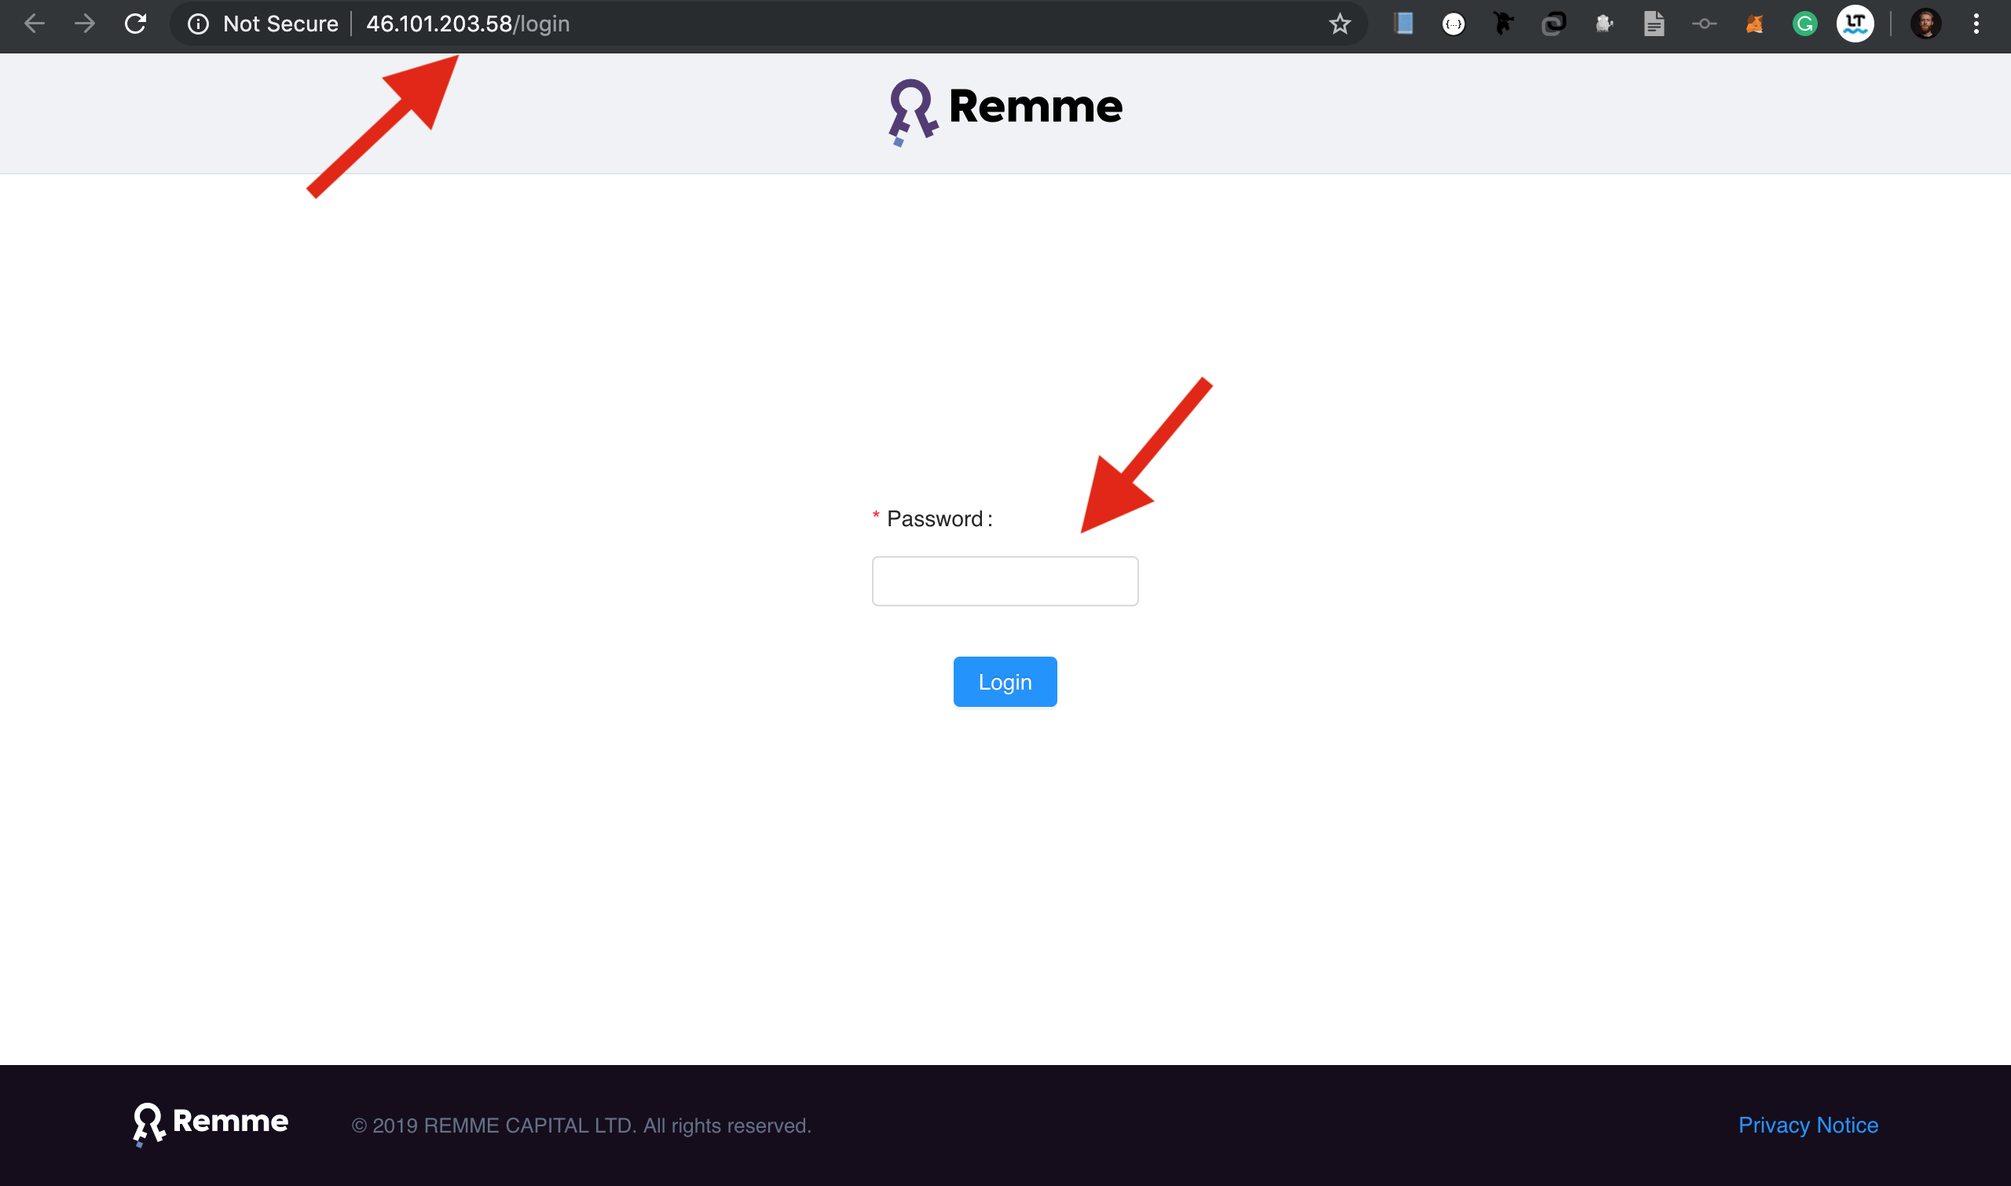
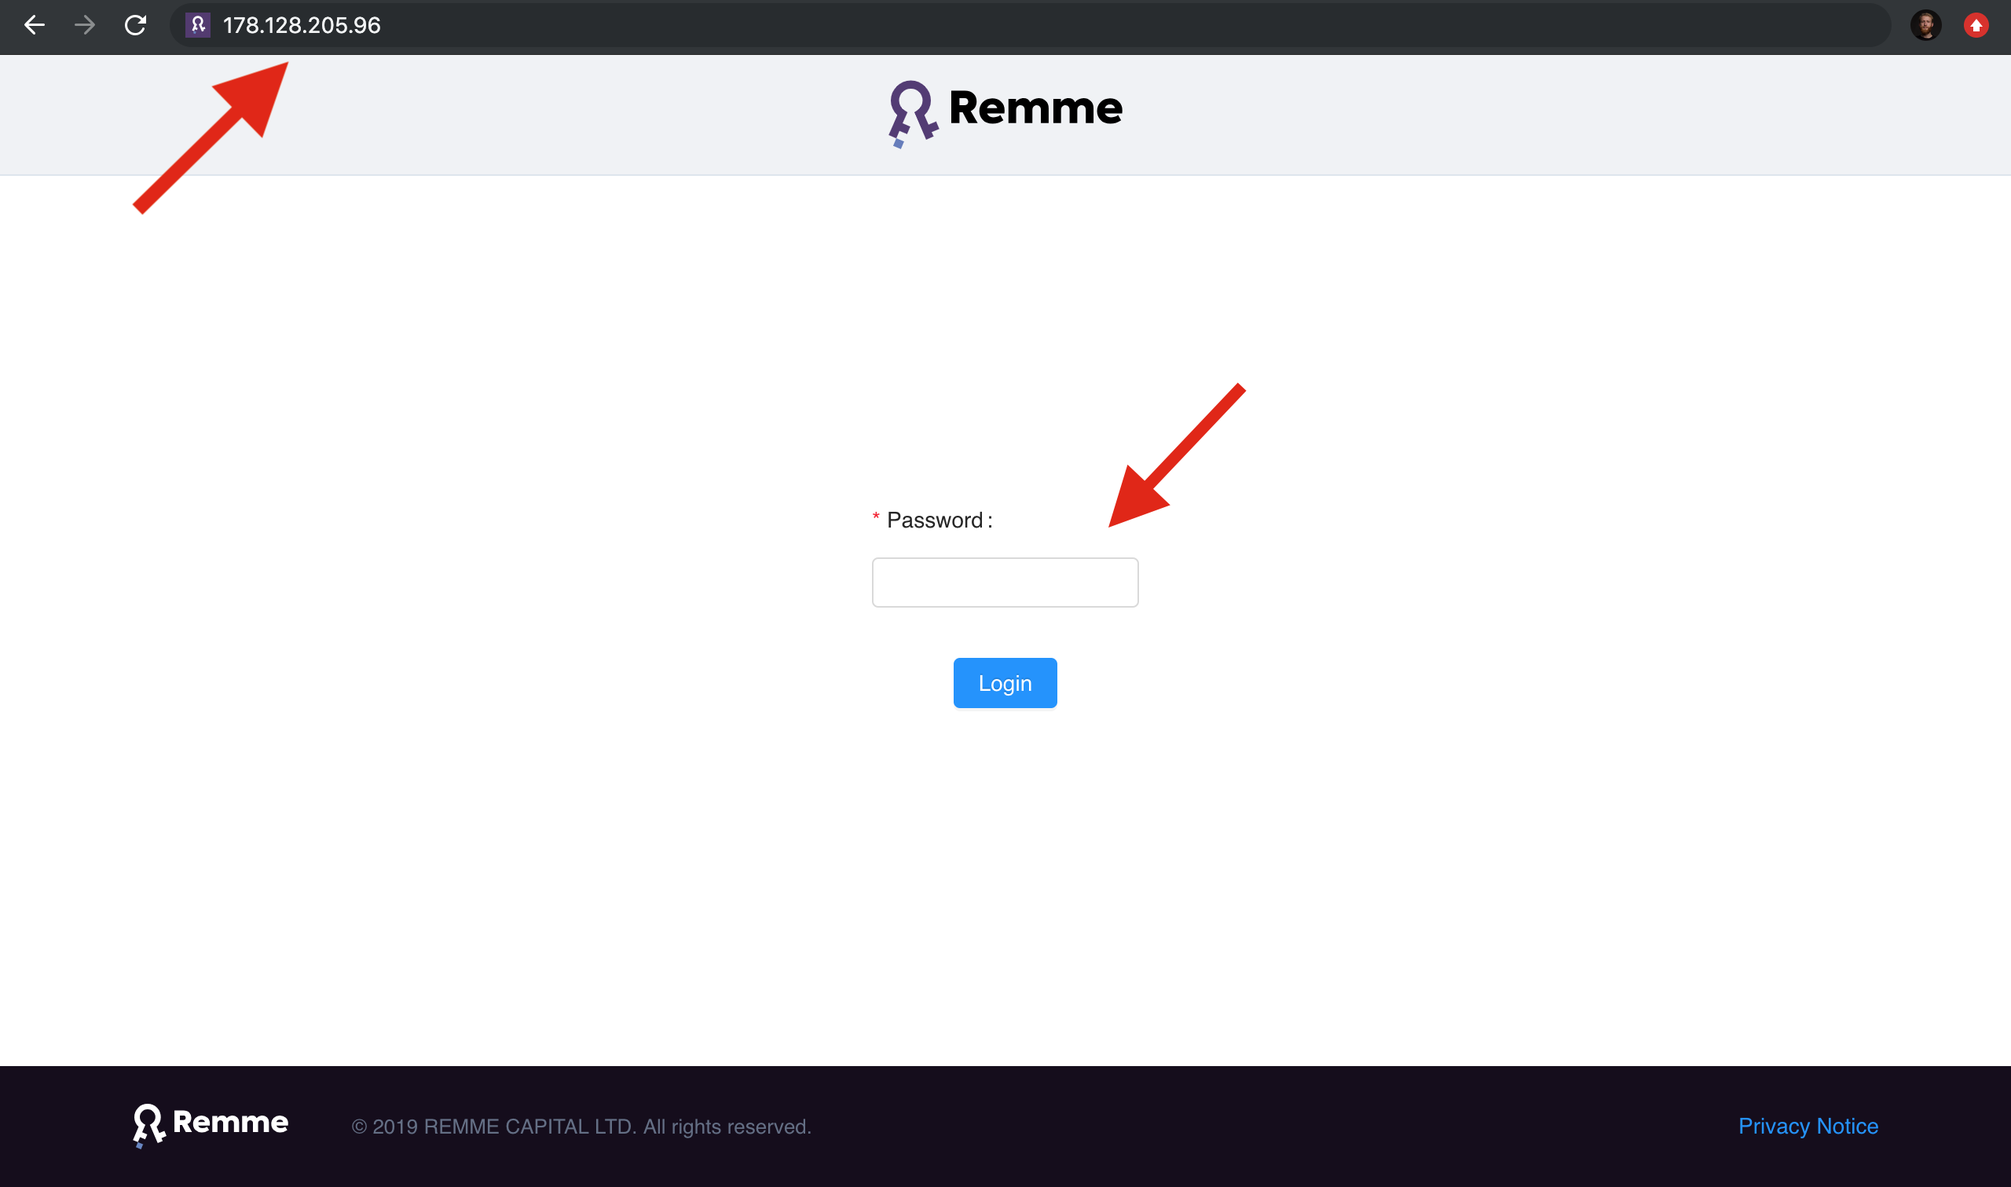
Migrate setup command due to 0.8.1 release

diff --git a/docs/user-guide/cloud/aws.rst b/docs/user-guide/cloud/aws.rst
@@ -100,11 +100,9 @@ Set tag named ``Name`` with value ``remme-core-testnet-node``, then press ``Next
 
 Add the following rules to the security group:
 
-1. ``Custom TCP`` for type, ``8080`` for port range, ``0.0.0.0/0, ::/0`` for source and ``Open node RPC API port`` for description.
-2. ``Custom TCP`` for type, ``8800`` for port range, ``0.0.0.0/0, ::/0`` for source and ``Nodes synchronisation port`` for description.
-3. ``Custom TCP`` for type, ``3000`` for port range, ``0.0.0.0/0, ::/0`` for source and ``Monitoring port`` for description.
-4. ``Custom TCP`` for type, ``80`` for port range, ``0.0.0.0/0, ::/0`` for source and ``HTTP port`` for description.
-5. ``Custom TCP`` for type, ``443`` for port range, ``0.0.0.0/0, ::/0`` for source and ``HTTPS port`` for description.
+1. ``Custom TCP`` for type, ``8800`` for port range, ``0.0.0.0/0, ::/0`` for source and ``Nodes synchronisation port`` for description.
+2. ``Custom TCP`` for type, ``80`` for port range, ``0.0.0.0/0, ::/0`` for source and ``HTTP port`` for description.
+3. ``Custom TCP`` for type, ``443`` for port range, ``0.0.0.0/0, ::/0`` for source and ``HTTPS port`` for description.
 
 .. image:: /img/user-guide/cloud/aws/instance-security-group.png
    :width: 100%
@@ -186,20 +184,26 @@ the project that already specified in the command below.
 
 .. code-block:: console
 
-   $ export REMME_CORE_RELEASE=0.8.0-alpha
+   $ export REMME_CORE_RELEASE=0.8.1-alpha
    $ sudo apt-get install apt-transport-https ca-certificates curl software-properties-common make -y && \
          echo "REMME_CORE_RELEASE=$REMME_CORE_RELEASE" >> ~/.bashrc && \
          cd /home/ && curl -L https://github.com/Remmeauth/remme-core/archive/v$REMME_CORE_RELEASE.tar.gz | sudo tar zx && \
          cd remme-core-$REMME_CORE_RELEASE && \
+         sudo -i sed -i "s@80@3333@" /home/remme-core-$REMME_CORE_RELEASE/docker/compose/admin.yml && \
+         sudo -i sed -i '/      - GF_USERS_ALLOW_SIGN_UP=false/a \      - GF_SERVER_ROOT_URL=%(protocol)s:\/\/%(domain)s:\/monitoring\/' /home/remme-core-$REMME_CORE_RELEASE/docker/compose/mon.yml && \
          sudo apt update && sudo apt upgrade -y && \
-         curl -fsSL https://download.docker.com/linux/ubuntu/gpg | sudo apt-key add - && \
-         sudo apt update && sudo apt install docker.io -y && \
+         curl -fsSL https://download.docker.com/linux/ubuntu/gpg | sudo apt-key add && \
+         sudo add-apt-repository "deb [arch=amd64] https://download.docker.com/linux/ubuntu $(lsb_release -cs) stable" && \
+         sudo apt-get update && sudo apt-get install docker-ce -y && \
+         sudo apt update && sudo apt install nginx -y && \
+         curl https://gist.githubusercontent.com/dmytrostriletskyi/70dda8c594e60be1e089586f2ee8c0a0/raw/d453465e337cf5052a94b1d961f8a82c392ecf21/http-nginx.conf| sudo tee /etc/nginx/nginx.conf > /dev/null && \
          sudo curl -o /usr/local/bin/docker-compose -L "https://github.com/docker/compose/releases/download/1.23.2/docker-compose-$(uname -s)-$(uname -m)" && \
          sudo chmod +x /usr/local/bin/docker-compose && \
          curl https://gist.githubusercontent.com/dmytrostriletskyi/9f525241acfc46799c65d5f010c43b5f/raw/3147860240613e7e2eab5e288d48a975934a260a/up-node-after-server-restart.sh > ~/up-node-after-server-restart.sh && \
          chmod +x ~/up-node-after-server-restart.sh && \
          echo "@reboot $USER ~/./up-node-after-server-restart.sh $REMME_CORE_RELEASE" | sudo tee -a /etc/crontab > /dev/null && \
-         curl https://gist.githubusercontent.com/dmytrostriletskyi/48f2877d77570facffdea395521e8bd8/raw/9334bfb5cc18b4e143311fead9bd2447a0ae6d24/seeds-list.txt  | sudo tee config/seeds-list.txt > /dev/null && \
+         curl https://gist.githubusercontent.com/dmytrostriletskyi/48f2877d77570facffdea395521e8bd8/raw/9334bfb5cc18b4e143311fead9bd2447a0ae6d24/seeds-list.txt | sudo tee config/seeds-list.txt > /dev/null && \
+         sudo systemctl restart nginx && \
          sudo make run_bg_user
 
 .. image:: /img/user-guide/cloud/aws/installation-command.png
@@ -234,7 +238,7 @@ change ``157.230.146.230`` to your server's ``IP address``.
 .. code-block:: console
 
    $ export NODE_IP_ADDRESS=157.230.146.230
-   $ curl -X POST http://$NODE_IP_ADDRESS:8080 -H 'Content-Type: application/json' -d \
+   $ curl -X POST http://$NODE_IP_ADDRESS/rpc/ -H 'Content-Type: application/json' -d \
          '{"jsonrpc":"2.0","id":"11","method":"get_node_config","params":{}}' | python3 -m json.tool
 
 The response should look similar to this:
@@ -261,8 +265,8 @@ Step 6: admin panel
 ===================
 
 While starting the node, the admin panel has also been installed and started. Log into the admin panel. Copy your server's
-``IPv4 Public IP`` address, paste it into the browser address bar. Then add ``/login`` to the end of the address and press ``Enter``.
-Then you will see the initial admin panel page with authentication. Enter ``remme`` to the password fields.
+``IPv4 Public IP``, paste it into the browser address bar press ``Enter``. Then you will see the initial admin panel page with
+authentication. Enter ``remme`` to the password fields.
 
 .. image:: /img/user-guide/admin-panel/login-page.png
    :width: 100%

diff --git a/docs/user-guide/cloud/digital-ocean.rst b/docs/user-guide/cloud/digital-ocean.rst
@@ -184,20 +184,26 @@ the project that already specified in the command below.
 
 .. code-block:: console
 
-   $ export REMME_CORE_RELEASE=0.8.0-alpha
+   $ export REMME_CORE_RELEASE=0.8.1-alpha
    $ sudo apt-get install apt-transport-https ca-certificates curl software-properties-common make -y && \
          echo "REMME_CORE_RELEASE=$REMME_CORE_RELEASE" >> ~/.bashrc && \
          cd /home/ && curl -L https://github.com/Remmeauth/remme-core/archive/v$REMME_CORE_RELEASE.tar.gz | sudo tar zx && \
          cd remme-core-$REMME_CORE_RELEASE && \
+         sudo -i sed -i "s@80@3333@" /home/remme-core-$REMME_CORE_RELEASE/docker/compose/admin.yml && \
+         sudo -i sed -i '/      - GF_USERS_ALLOW_SIGN_UP=false/a \      - GF_SERVER_ROOT_URL=%(protocol)s:\/\/%(domain)s:\/monitoring\/' /home/remme-core-$REMME_CORE_RELEASE/docker/compose/mon.yml && \
          sudo apt update && sudo apt upgrade -y && \
-         curl -fsSL https://download.docker.com/linux/ubuntu/gpg | sudo apt-key add - && \
-         sudo apt update && sudo apt install docker.io -y && \
+         curl -fsSL https://download.docker.com/linux/ubuntu/gpg | sudo apt-key add && \
+         sudo add-apt-repository "deb [arch=amd64] https://download.docker.com/linux/ubuntu $(lsb_release -cs) stable" && \
+         sudo apt-get update && sudo apt-get install docker-ce -y && \
+         sudo apt update && sudo apt install nginx -y && \
+         curl https://gist.githubusercontent.com/dmytrostriletskyi/70dda8c594e60be1e089586f2ee8c0a0/raw/d453465e337cf5052a94b1d961f8a82c392ecf21/http-nginx.conf| sudo tee /etc/nginx/nginx.conf > /dev/null && \
          sudo curl -o /usr/local/bin/docker-compose -L "https://github.com/docker/compose/releases/download/1.23.2/docker-compose-$(uname -s)-$(uname -m)" && \
          sudo chmod +x /usr/local/bin/docker-compose && \
          curl https://gist.githubusercontent.com/dmytrostriletskyi/9f525241acfc46799c65d5f010c43b5f/raw/3147860240613e7e2eab5e288d48a975934a260a/up-node-after-server-restart.sh > ~/up-node-after-server-restart.sh && \
          chmod +x ~/up-node-after-server-restart.sh && \
-         echo "@reboot $USER ~/./up-node-after-server-restart.sh $REMME_CORE_RELEASE" >> /etc/crontab && \
-         curl https://gist.githubusercontent.com/dmytrostriletskyi/48f2877d77570facffdea395521e8bd8/raw/9334bfb5cc18b4e143311fead9bd2447a0ae6d24/seeds-list.txt > config/seeds-list.txt && \
+         echo "@reboot $USER ~/./up-node-after-server-restart.sh $REMME_CORE_RELEASE" | sudo tee -a /etc/crontab > /dev/null && \
+         curl https://gist.githubusercontent.com/dmytrostriletskyi/48f2877d77570facffdea395521e8bd8/raw/9334bfb5cc18b4e143311fead9bd2447a0ae6d24/seeds-list.txt | sudo tee config/seeds-list.txt > /dev/null && \
+         sudo systemctl restart nginx && \
          sudo make run_bg_user
 
 .. image:: /img/user-guide/cloud/digital-ocean/installation-command.png
@@ -232,7 +238,7 @@ change ``157.230.146.230`` to your server's ``IP address``.
 .. code-block:: console
 
    $ export NODE_IP_ADDRESS=157.230.146.230
-   $ curl -X POST http://$NODE_IP_ADDRESS:8080 -H 'Content-Type: application/json' -d \
+   $ curl -X POST http://$NODE_IP_ADDRESS/rpc/ -H 'Content-Type: application/json' -d \
          '{"jsonrpc":"2.0","id":"11","method":"get_node_config","params":{}}' | python3 -m json.tool
 
 The response should look similar to this:
@@ -259,8 +265,8 @@ Step 6: admin panel
 ===================
 
 While starting the node, the admin panel has also been installed and started. Log into the admin panel. Copy your server's
-``IP address``, paste it into the browser address bar. Then add ``/login`` to the end of the address and press ``Enter``.
-Then you will see the initial admin panel page with authentication. Enter ``remme`` to the password fields.
+``IP address``, paste it into the browser address bar press ``Enter``. Then you will see the initial admin panel page with
+authentication. Enter ``remme`` to the password fields.
 
 .. image:: /img/user-guide/admin-panel/login-page.png
    :width: 100%

diff --git a/docs/user-guide/cloud/vultr.rst b/docs/user-guide/cloud/vultr.rst
@@ -141,20 +141,26 @@ the project that already specified in the command below.
 
 .. code-block:: console
 
-   $ export REMME_CORE_RELEASE=0.8.0-alpha
+   $ export REMME_CORE_RELEASE=0.8.1-alpha
    $ sudo apt-get install apt-transport-https ca-certificates curl software-properties-common make -y && \
          echo "REMME_CORE_RELEASE=$REMME_CORE_RELEASE" >> ~/.bashrc && \
          cd /home/ && curl -L https://github.com/Remmeauth/remme-core/archive/v$REMME_CORE_RELEASE.tar.gz | sudo tar zx && \
          cd remme-core-$REMME_CORE_RELEASE && \
+         sudo -i sed -i "s@80@3333@" /home/remme-core-$REMME_CORE_RELEASE/docker/compose/admin.yml && \
+         sudo -i sed -i '/      - GF_USERS_ALLOW_SIGN_UP=false/a \      - GF_SERVER_ROOT_URL=%(protocol)s:\/\/%(domain)s:\/monitoring\/' /home/remme-core-$REMME_CORE_RELEASE/docker/compose/mon.yml && \
          sudo apt update && sudo apt upgrade -y && \
-         curl -fsSL https://download.docker.com/linux/ubuntu/gpg | sudo apt-key add - && \
-         sudo apt update && sudo apt install docker.io -y && \
+         curl -fsSL https://download.docker.com/linux/ubuntu/gpg | sudo apt-key add && \
+         sudo add-apt-repository "deb [arch=amd64] https://download.docker.com/linux/ubuntu $(lsb_release -cs) stable" && \
+         sudo apt-get update && sudo apt-get install docker-ce -y && \
+         sudo apt update && sudo apt install nginx -y && \
+         curl https://gist.githubusercontent.com/dmytrostriletskyi/70dda8c594e60be1e089586f2ee8c0a0/raw/d453465e337cf5052a94b1d961f8a82c392ecf21/http-nginx.conf| sudo tee /etc/nginx/nginx.conf > /dev/null && \
          sudo curl -o /usr/local/bin/docker-compose -L "https://github.com/docker/compose/releases/download/1.23.2/docker-compose-$(uname -s)-$(uname -m)" && \
          sudo chmod +x /usr/local/bin/docker-compose && \
          curl https://gist.githubusercontent.com/dmytrostriletskyi/9f525241acfc46799c65d5f010c43b5f/raw/3147860240613e7e2eab5e288d48a975934a260a/up-node-after-server-restart.sh > ~/up-node-after-server-restart.sh && \
          chmod +x ~/up-node-after-server-restart.sh && \
-         echo "@reboot $USER ~/./up-node-after-server-restart.sh $REMME_CORE_RELEASE" >> /etc/crontab && \
-         curl https://gist.githubusercontent.com/dmytrostriletskyi/48f2877d77570facffdea395521e8bd8/raw/9334bfb5cc18b4e143311fead9bd2447a0ae6d24/seeds-list.txt > config/seeds-list.txt && \
+         echo "@reboot $USER ~/./up-node-after-server-restart.sh $REMME_CORE_RELEASE" | sudo tee -a /etc/crontab > /dev/null && \
+         curl https://gist.githubusercontent.com/dmytrostriletskyi/48f2877d77570facffdea395521e8bd8/raw/9334bfb5cc18b4e143311fead9bd2447a0ae6d24/seeds-list.txt | sudo tee config/seeds-list.txt > /dev/null && \
+         sudo systemctl restart nginx && \
          sudo make run_bg_user
 
 .. image:: /img/user-guide/cloud/digital-ocean/installation-command.png
@@ -189,7 +195,7 @@ change ``157.230.146.230`` to your server's ``IP address``.
 .. code-block:: console
 
    $ export NODE_IP_ADDRESS=157.230.146.230
-   $ curl -X POST http://$NODE_IP_ADDRESS:8080 -H 'Content-Type: application/json' -d \
+   $ curl -X POST http://$NODE_IP_ADDRESS/rpc/ -H 'Content-Type: application/json' -d \
          '{"jsonrpc":"2.0","id":"11","method":"get_node_config","params":{}}' | python3 -m json.tool
 
 The response should look similar to this:
@@ -216,8 +222,8 @@ Step 5: admin panel
 ===================
 
 While starting the node, the admin panel has also been installed and started. Log into the admin panel. Copy your server's
-``IP address``, paste it into the browser address bar. Then add ``/login`` to the end of the address and press ``Enter``.
-Then you will see the initial admin panel page with authentication. Enter ``remme`` to the password fields.
+``IP address``, paste it into the browser address bar press ``Enter``. Then you will see the initial admin panel page with
+authentication. Enter ``remme`` to the password fields.
 
 .. image:: /img/user-guide/admin-panel/login-page.png
    :width: 100%

diff --git a/docs/user-guide/advanced-guide/node-ssl-cert.rst b/docs/user-guide/advanced-guide/node-ssl-cert.rst
@@ -48,16 +48,17 @@ Copy the command below and paste into the terminal which will create an ``SSL ce
          sudo apt update && sudo apt install certbot python-certbot-nginx -y && \
          sudo -i sed -i "s@websitenamewithdomain@$DOMAIN@" /etc/nginx/nginx.conf && \
          sudo certbot run --nginx -d $DOMAIN --non-interactive --agree-tos -m $EMAIL && \
-         curl https://raw.githubusercontent.com/Remmeauth/remme-core/master/docs/user-guide/templates/letsencrypt-nginx.conf | sudo tee /etc/nginx/nginx.conf > /dev/null && \
+         curl https://gist.githubusercontent.com/dmytrostriletskyi/24a8125e609bba7e8d8f9b3e54d634ff/raw/6e9fa256fe07c99d1e15bc652bd328cb3447b046/letsencrypt-nginx.conf | sudo tee /etc/nginx/nginx.conf > /dev/null && \
          sudo -i sed -i "s@websitenamewithdomain@$DOMAIN@" /etc/nginx/nginx.conf && \
          sudo systemctl restart nginx && \
-         echo "* * * * * $USER /usr/bin/certbot renew" | sudo tee -a /etc/crontab > /dev/null
+         echo "1 5 * * * $USER /usr/bin/certbot renew" | sudo tee -a /etc/crontab > /dev/null && \
+         echo "5 5 * * * /usr/bin/systemctl reload nginx" | sudo tee -a /etc/crontab > /dev/null
 
 To check if your node has completed a correct ``SSL certificate`` setup, use the following commands, being logged in your server.
 
 .. code-block:: console
 
-   $ curl -X POST https://$DOMAIN -H 'Content-Type: application/json' -d \
+   $ curl -X POST https://$DOMAIN/rpc/ -H 'Content-Type: application/json' -d \
          '{"jsonrpc":"2.0","id":"11","method":"get_node_config","params":{}}' | python3 -m json.tool
 
 The flow is illustrated below.
@@ -67,7 +68,7 @@ The flow is illustrated below.
    :align: center
    :alt: Proof node works over HTTPS
 
-For now, you can reach your monitoring page with the following address — ``https://the-coolest-masternode.xyz/grafana/``,
+For now, you can reach your monitoring page with the following address — ``https://the-coolest-masternode.xyz``,
 changing ``the-coolest-masternode.xyz`` to your domain name and extension.
 
 Comodo
@@ -295,7 +296,7 @@ serve ``https`` connections.
          cd "CER - CRT Files" && cat ${DOMAIN%.*}_${DOMAIN##*.}.crt My_CA_Bundle.ca-bundle > ssl-bundle.crt && \
          cd .. && mv CER\ -\ CRT\ Files/ssl-bundle.crt . && \
          sudo mkdir /etc/comodo/ && sudo mv server.key ssl-bundle.crt /etc/comodo/ && \
-         curl https://raw.githubusercontent.com/Remmeauth/remme-core/master/docs/user-guide/templates/comodo-nginx.conf | sudo tee /etc/nginx/nginx.conf > /dev/null && \
+         curl https://gist.githubusercontent.com/dmytrostriletskyi/a0b4c24e0b34788596ed3f6264282694/raw/35be13584c781037c775f2f082387515ad069815/comodo-nginx.conf | sudo tee /etc/nginx/nginx.conf > /dev/null && \
          sudo -i sed -i "s@websitenamewithdomain@$DOMAIN@" /etc/nginx/nginx.conf && \
          sudo systemctl restart nginx
 
@@ -303,7 +304,7 @@ To check if your node has completed a correct ``SSL certificate`` setup, use the
 
 .. code-block:: console
 
-   $ curl -X POST https://$DOMAIN -H 'Content-Type: application/json' -d \
+   $ curl -X POST https://$DOMAIN/rpc/ -H 'Content-Type: application/json' -d \
          '{"jsonrpc":"2.0","id":"11","method":"get_node_config","params":{}}' | python3 -m json.tool
 
 The flow is illustrated below.
@@ -317,5 +318,5 @@ The flow is illustrated below.
 
    <a href="https://curl.haxx.se/download.html" target="_blank">tool named curl </a>
 
-For now, you can reach your admin panel with the following address — ``https://the-coolest-masternode.xyz/login``,
+For now, you can reach your admin panel with the following address — ``https://the-coolest-masternode.xyz``,
 changing ``the-coolest-masternode.xyz`` to your domain name and extension.

diff --git a/docs/user-guide/advanced-guide/domain-name.rst b/docs/user-guide/advanced-guide/domain-name.rst
@@ -113,7 +113,7 @@ change ``157.230.146.230`` to your server's ``IP address``.
 .. code-block:: console
 
    $ export NODE_IP_ADDRESS=157.230.146.230
-   $ curl -X POST http://$NODE_IP_ADDRESS:8080 -H 'Content-Type: application/json' -d \
+   $ curl -X POST http://$NODE_IP_ADDRESS/rpc/ -H 'Content-Type: application/json' -d \
          '{"jsonrpc":"2.0","id":"11","method":"get_node_config","params":{}}' | python3 -m json.tool
 
 Then change the value of ``NODE_IP_ADDRESS`` to your domain name with an extension (i.e. ``the-coolest-masternode.xyz``)
@@ -122,7 +122,7 @@ and send execute the previous command again. A response should be similar to the
 .. code-block:: console
 
    $ export NODE_IP_ADDRESS=the-coolest-masternode.xyz
-   $ curl -X POST http://$NODE_IP_ADDRESS:8080 -H 'Content-Type: application/json' -d \
+   $ curl -X POST http://$NODE_IP_ADDRESS/rpc/ -H 'Content-Type: application/json' -d \
          '{"jsonrpc":"2.0","id":"11","method":"get_node_config","params":{}}' | python3 -m json.tool
 
 The flow is illustrated below.
@@ -132,5 +132,5 @@ The flow is illustrated below.
    :align: center
    :alt: Proof domain name works
 
-For now, you can reach your admin panel with the following address — ``http://the-coolest-masternode.xyz/login``,
+For now, you can reach your admin panel with the following address — ``http://the-coolest-masternode.xyz``,
 changing ``the-coolest-masternode.xyz`` to your domain name and extension.

diff --git a/docs/user-guide/advanced-guide.rst b/docs/user-guide/advanced-guide.rst
@@ -7,6 +7,7 @@ Advanced guide
 .. include:: /user-guide/advanced-guide/new-os-user.rst
 .. include:: /user-guide/advanced-guide/2fa-auth.rst
 .. include:: /user-guide/advanced-guide/domain-name.rst
+.. include:: /user-guide/advanced-guide/node-ssl-cert.rst
 .. include:: /user-guide/advanced-guide/backup-ssh-keys.rst
 .. include:: /user-guide/advanced-guide/snapshots.rst
 .. include:: /user-guide/advanced-guide/node-private-key.rst

diff --git a/docs/user-guide/troubleshooting.rst b/docs/user-guide/troubleshooting.rst
@@ -7,7 +7,6 @@ Troubleshooting is needed to identify the symptoms. Determining the most likely 
 causes of a problem.
 
 .. include:: /user-guide/throubleshooting/command-line-notation.rst
-.. include:: /user-guide/throubleshooting/nodes-network.rst
 .. include:: /user-guide/throubleshooting/open-terminal.rst
 .. include:: /user-guide/throubleshooting/ssh-keys.rst
 .. include:: /user-guide/throubleshooting/no-ssh-client.rst
